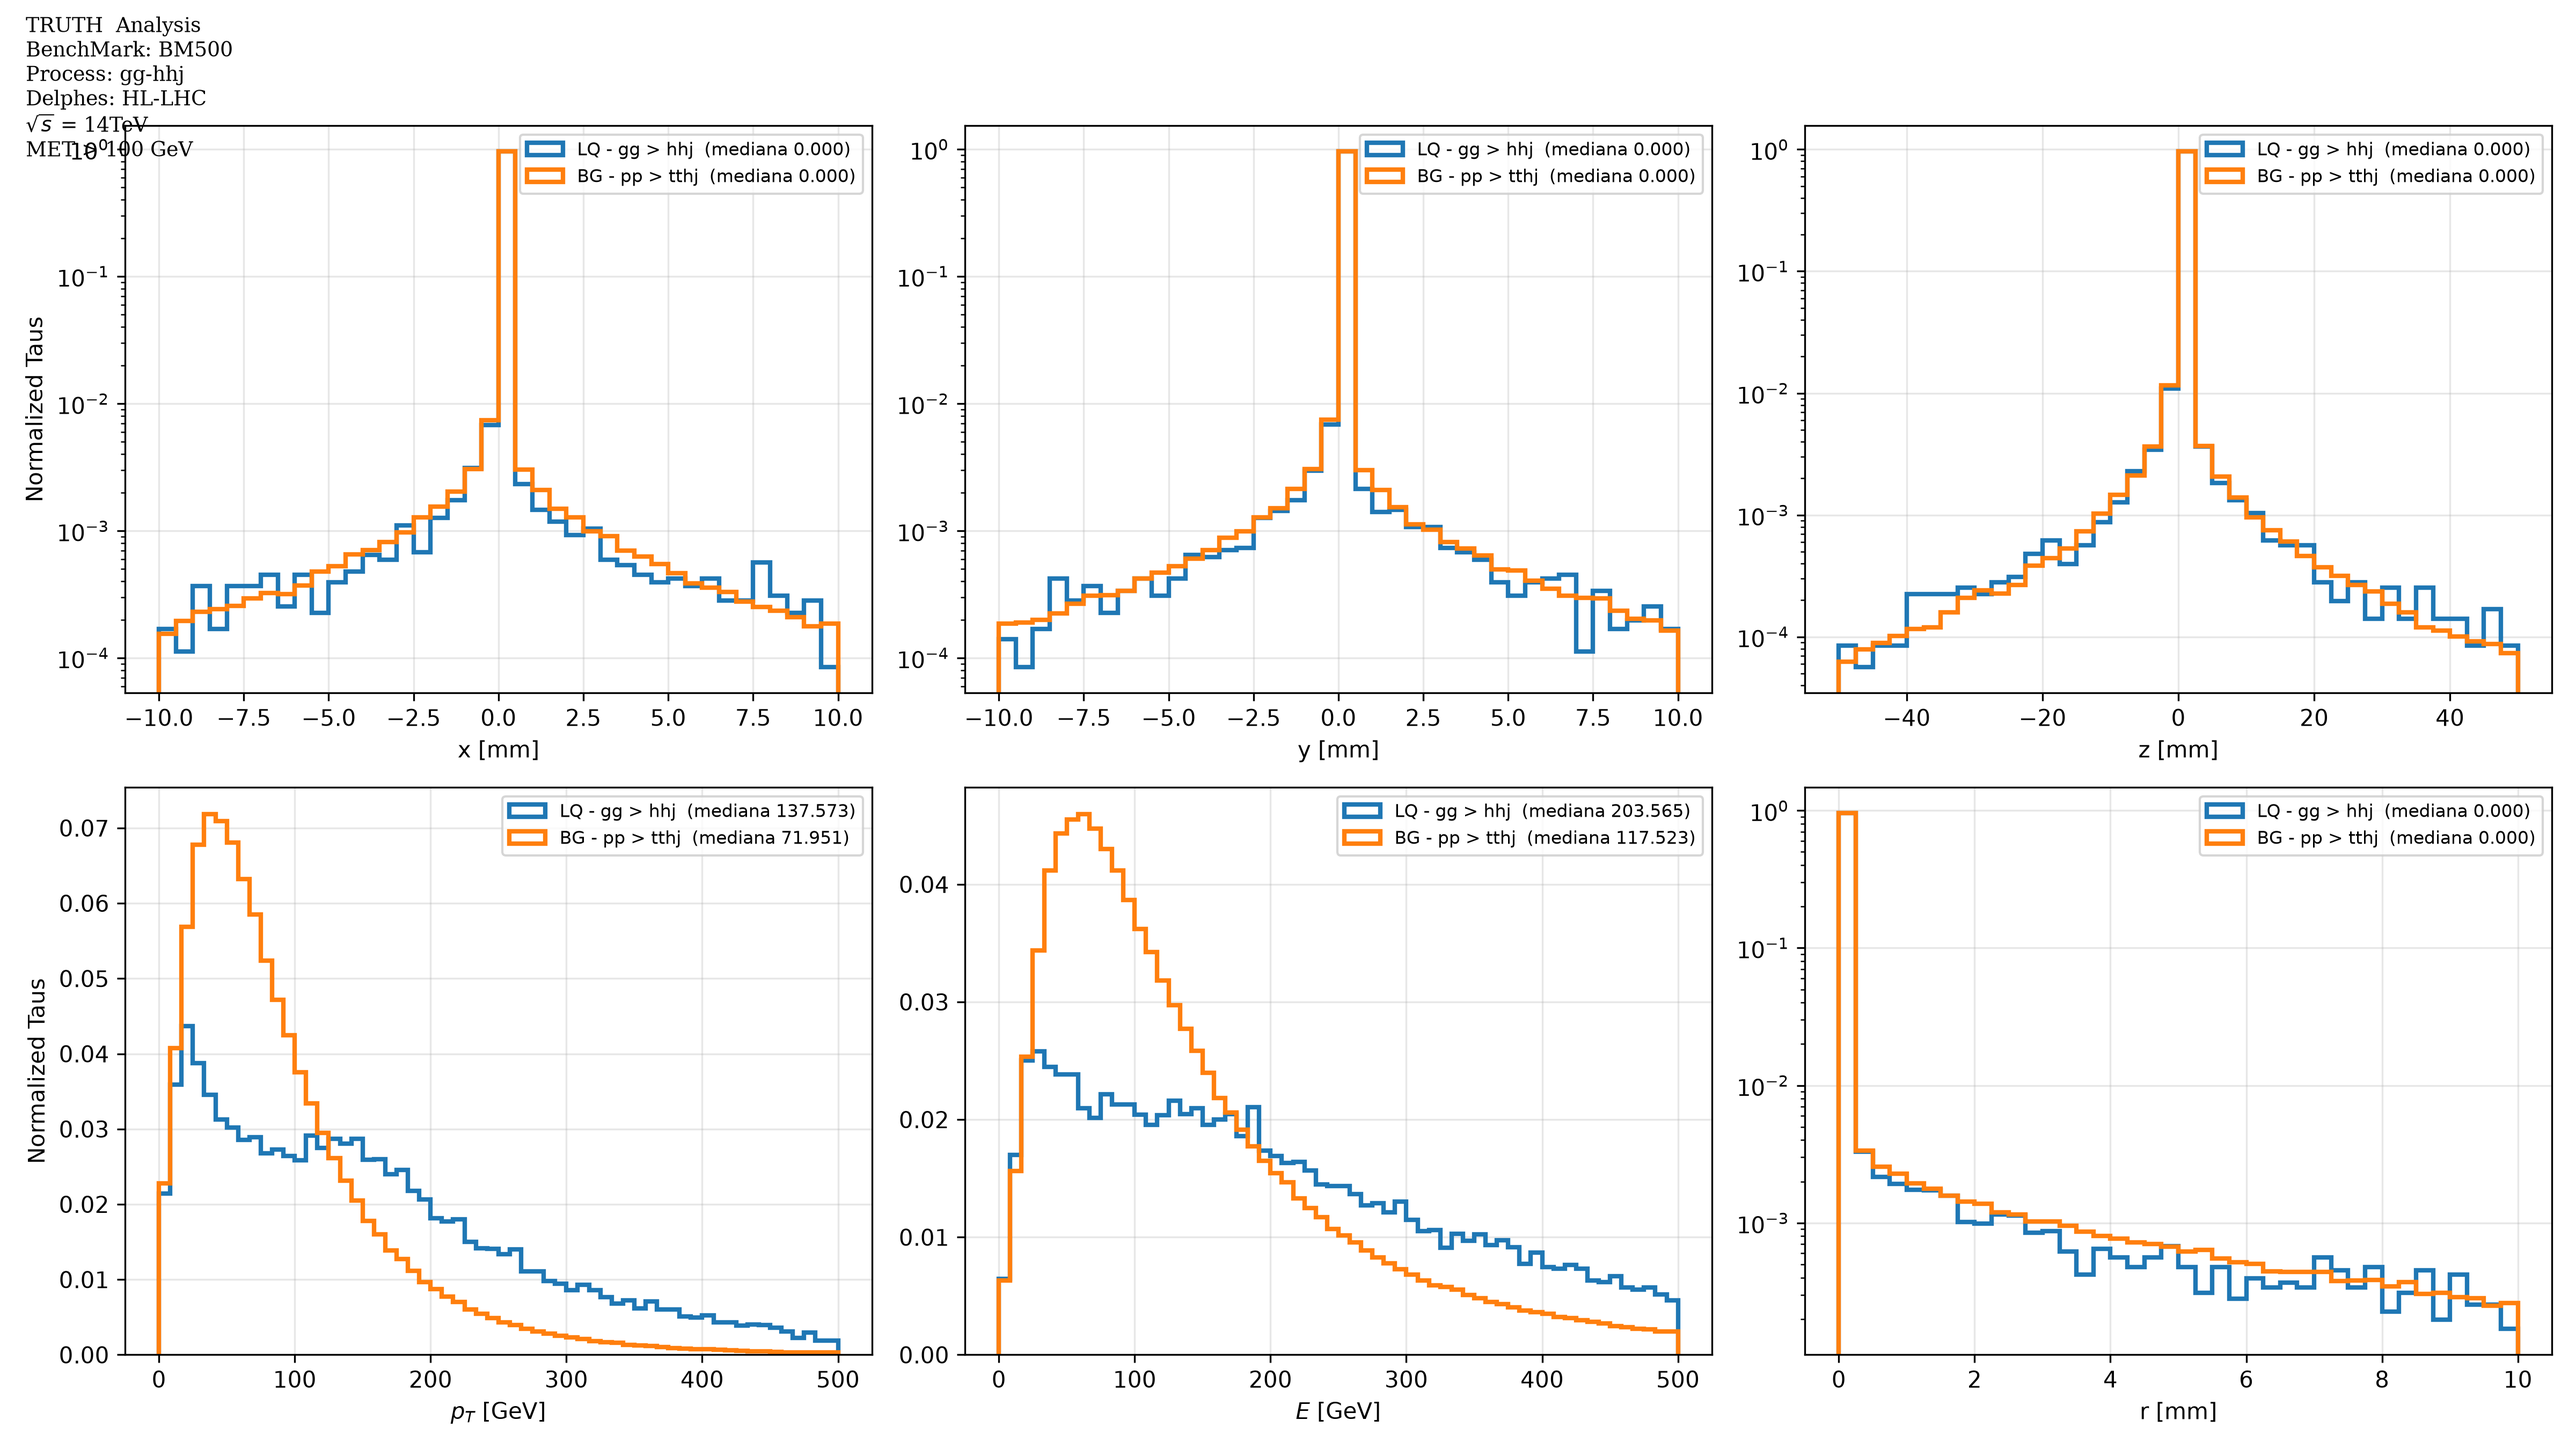
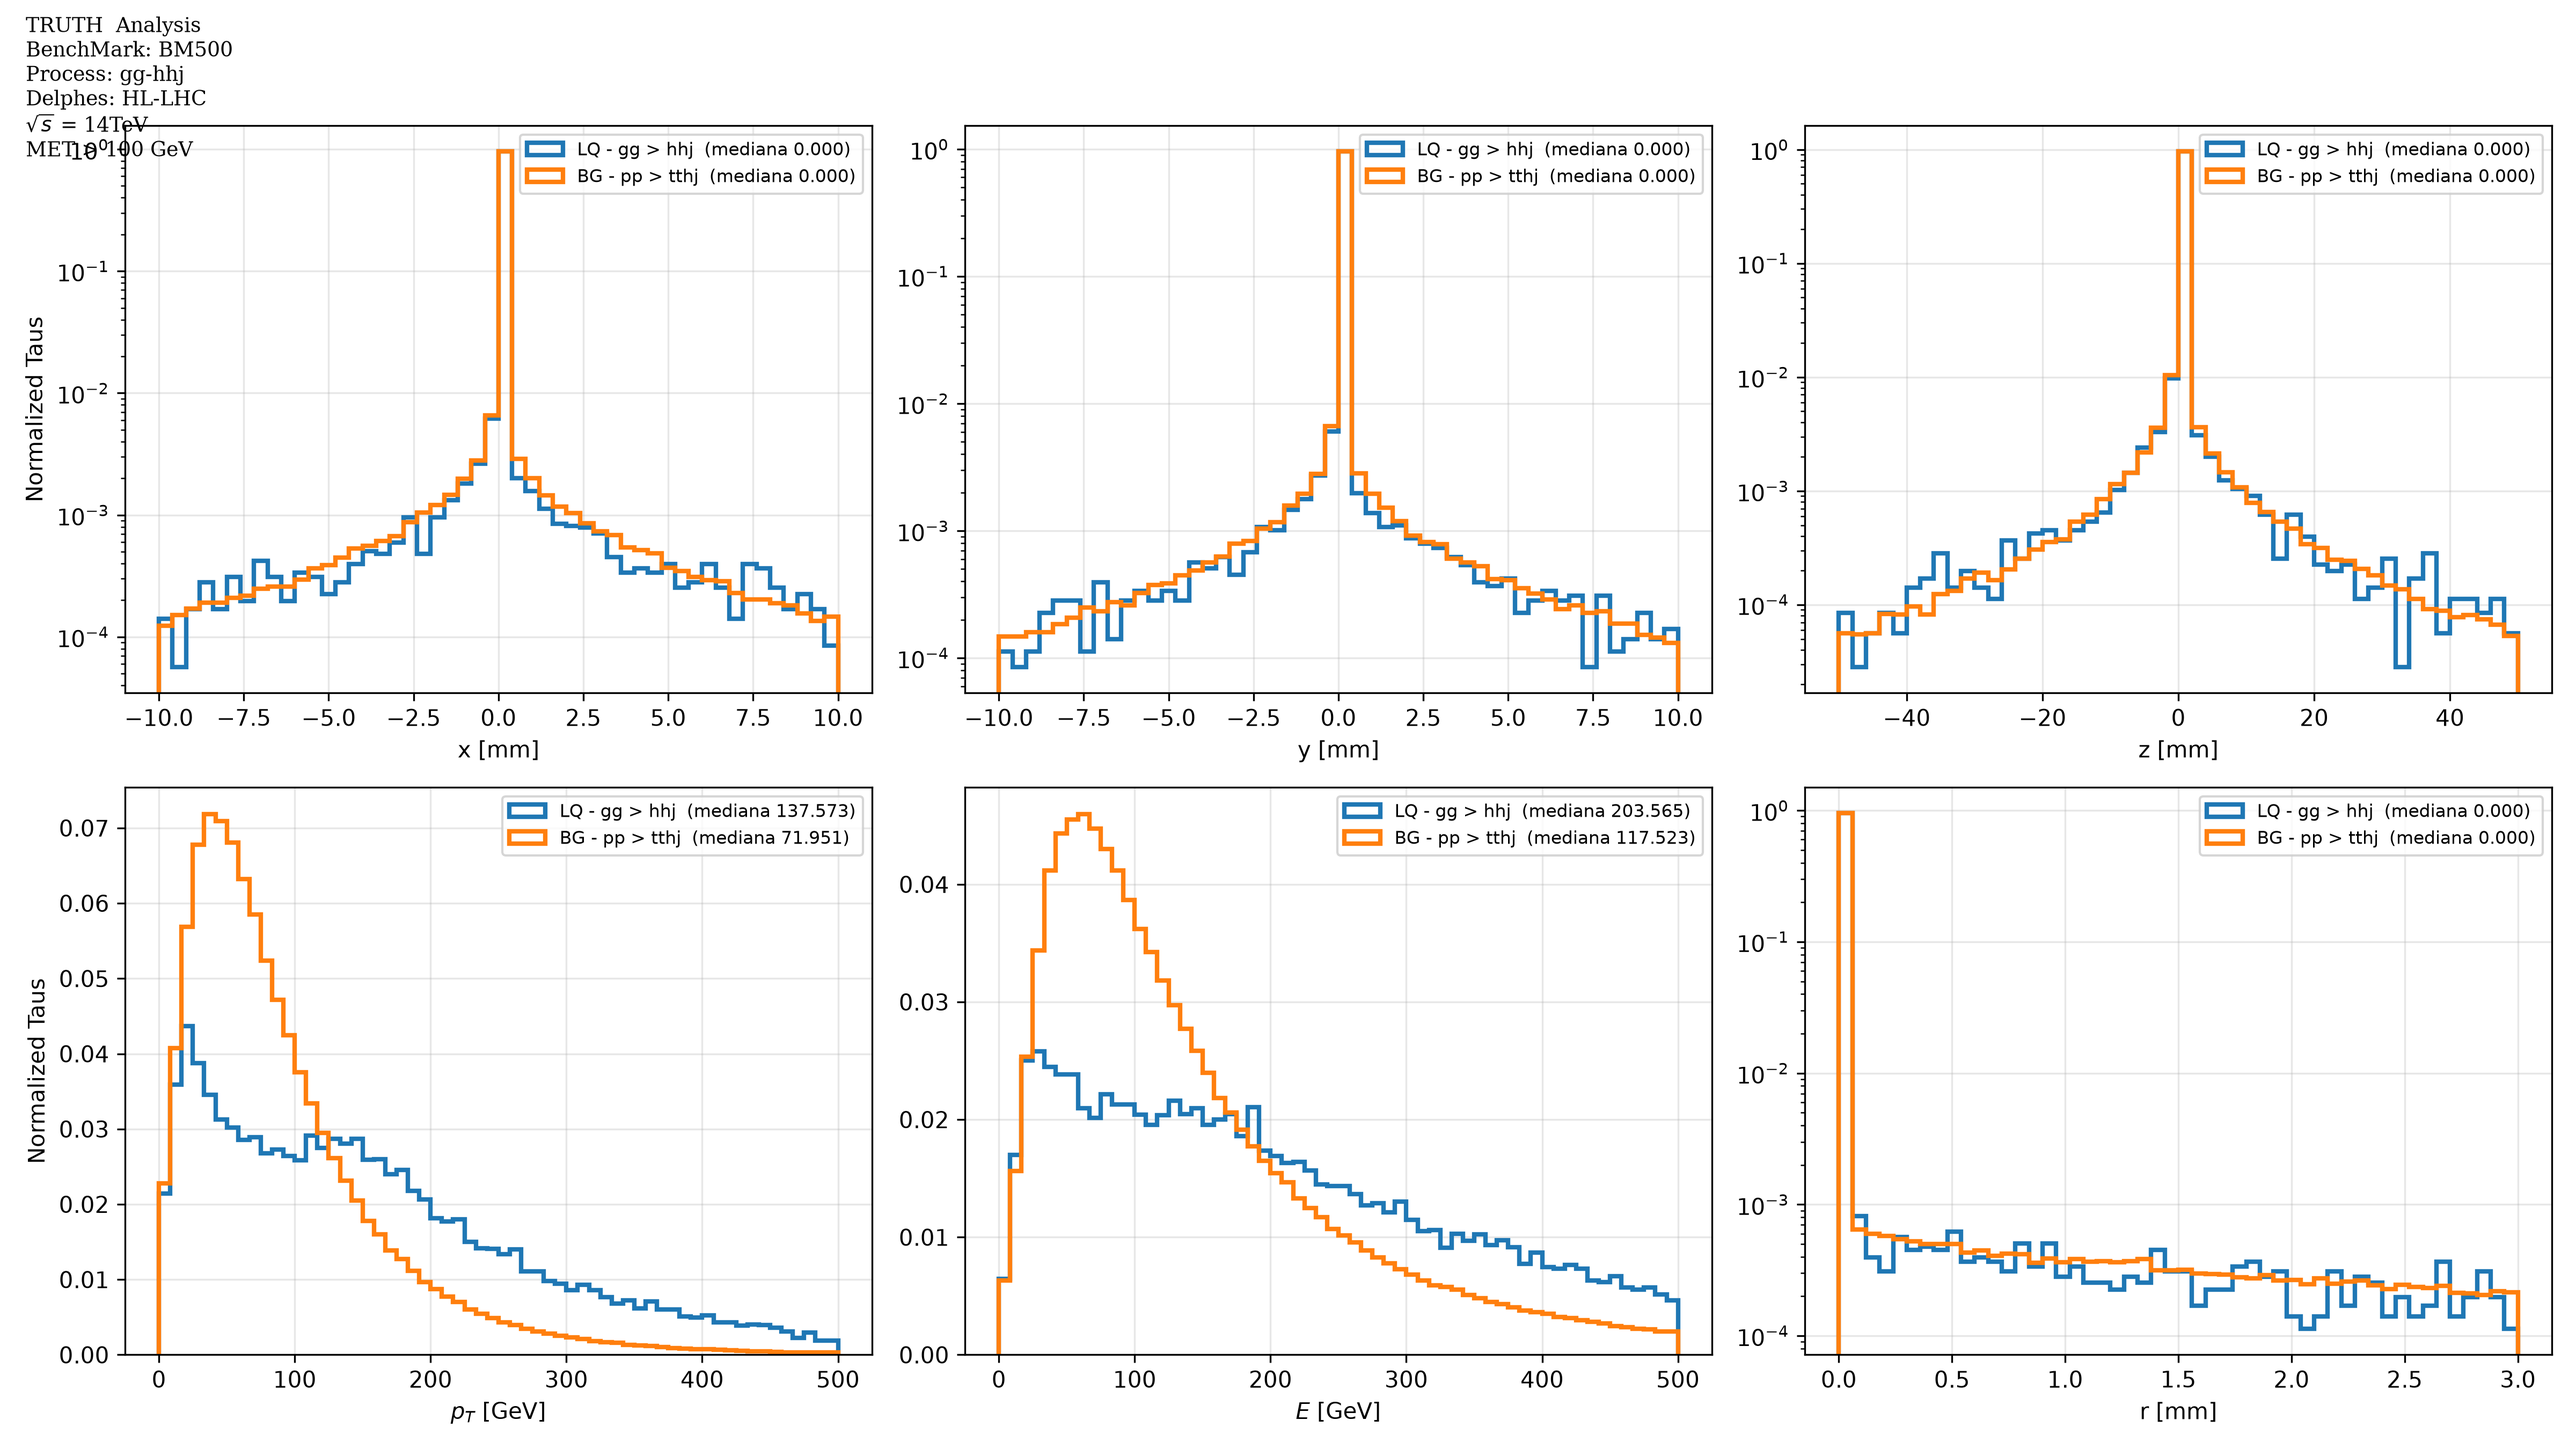
Calculo Asimov

diff --git a/RecAnalysis/plot_roc.py b/RecAnalysis/plot_roc.py
@@ -97,12 +97,56 @@ BR_t_Wb = 0.998
 # Señal por MG         0.006997 +- 1.871e-05 pb
 # Fondo por MG         0.002926 +- 1.03e-05 pb
 
-sigma_gg_hh_LQ =  6997     # ab
+sigma_gg_hh_LQ =  85514.4     # ab
 sigma_pp_tth_SM = 2926     # ab
 
 n_s = L*sigma_gg_hh_LQ*(2*BR_h_tata*BR_h_bb)*eff_sig
 n_b = L*sigma_pp_tth_SM*(2*BR_h_tata*BR_t_Wb**2)*eff_bkg
 
+
+
+# ===== Parametros del calculo de significancia =====
+
+MG_XS_SIG = 6997.0    # ab, matched, muestra YA decaida
+MG_XS_BKG = 2926.0    # ab, matched, muestra YA decaida
+
+f_sig = 2 * BR_h_tata * BR_h_bb        # dos Higgs: (bb,tautau) + (tautau,bb)
+f_bkg = 2 * BR_h_tata * BR_t_Wb**2
+
+sigma_ef_sig = sigma_gg_hh_LQ  * f_sig
+sigma_ef_bkg = sigma_pp_tth_SM * f_bkg
+
+L_fb = L * 1000.0
+sep  = "=" * 70
+
+print(sep); print("  PARAMETROS DEL CALCULO DE SIGNIFICANCIA"); print(sep)
+print(f"  Luminosidad integrada      L = {L:g} ab^-1   ({L_fb:,.0f} fb^-1)")
+print()
+print("  Branching ratios")
+print(f"    BR(h -> tau+ tau-)         = {BR_h_tata:.4f}")
+print(f"    BR(h -> b b~)              = {BR_h_bb:.4f}")
+print(f"    BR(t -> W b)               = {BR_t_Wb:.4f}")
+print()
+print("  Señal:  gg -> hh,  h -> b b~,  h -> tau+ tau-")
+print(f"    sigma inclusiva            = {sigma_gg_hh_LQ:>12,.1f} ab")
+print(f"    factor BR  2*BRtt*BRbb     = {f_sig:>12.6f}")
+print(f"    sigma efectiva             = {sigma_ef_sig:>12,.1f} ab")
+print(f"    sigma matched MG (decaida) = {MG_XS_SIG:>12,.1f} ab   -> cociente {sigma_ef_sig/MG_XS_SIG:.3f}")
+print(f"    eventos esperados (eff=1)  = {L*sigma_ef_sig:>12,.0f}")
+print()
+print("  Fondo:  pp -> tt~h(j),  h -> tau+ tau-,  W -> l nu")
+print(f"    sigma usada                = {sigma_pp_tth_SM:>12,.1f} ab")
+print(f"    factor BR  2*BRtt*BRtWb^2  = {f_bkg:>12.6f}")
+print(f"    sigma efectiva             = {sigma_ef_bkg:>12,.1f} ab")
+print(f"    sigma matched MG (decaida) = {MG_XS_BKG:>12,.1f} ab   -> cociente {sigma_ef_bkg/MG_XS_BKG:.3f}")
+print(f"    eventos esperados (eff=1)  = {L*sigma_ef_bkg:>12,.0f}")
+print()
+print(f"  S/B inclusivo (eff=1)        = {sigma_ef_sig/sigma_ef_bkg:>12.4f}")
+print(sep)
+
+
+
+# Plot
 
 significancias = np.array(Asimov(n_s[1:], n_b[1:]))
 

diff --git a/RecAnalysis/ROOT_analyzer.py b/RecAnalysis/ROOT_analyzer.py
@@ -227,16 +227,18 @@ E_taus_to_decay  = {key: ak.to_numpy(ak.flatten(t.E))  for key, t in TwoTaus_gen
 X_vertex = {key: ak.to_numpy(ak.flatten(t.vx)) for key, t in TwoTaus_gen.items()}
 Y_vertex = {key: ak.to_numpy(ak.flatten(t.vy)) for key, t in TwoTaus_gen.items()}
 Z_vertex = {key: ak.to_numpy(ak.flatten(t.vz)) for key, t in TwoTaus_gen.items()}
-R_vertex = {key: np.sqrt(X_vertex[key]**2 + Y_vertex[key]**2) for key in X_vertex}
+
+# Calculo toda la distancia recorrida por el truthtau
+R_vertex = {key: np.sqrt(X_vertex[key]**2 + Y_vertex[key]**2 + Z_vertex[key]**2) for key in X_vertex}
 
 # (datos, etiqueta del eje x, rango, nbins, escala log en y)
 paneles = [
-    (X_vertex,         "x [mm]",       (-10, 10), 40, True),
-    (Y_vertex,         "y [mm]",       (-10, 10), 40, True),
-    (Z_vertex,         "z [mm]",       (-50, 50), 40, True),
+    (X_vertex,         "x [mm]",       (-10, 10), 50, True),
+    (Y_vertex,         "y [mm]",       (-10, 10), 50, True),
+    (Z_vertex,         "z [mm]",       (-50, 50), 50, True),
     (PT_taus_to_decay, r"$p_T$ [GeV]", (0, 500),  60, False),
     (E_taus_to_decay,  r"$E$ [GeV]",   (0, 500),  60, False),
-    (R_vertex,         "r [mm]",       (0, 10),   40, True),
+    (R_vertex,         "r [mm]",       (0, 3),   50, True),
 ]
 
 fig, axes = plt.subplots(2, 3, figsize=(16, 9))
